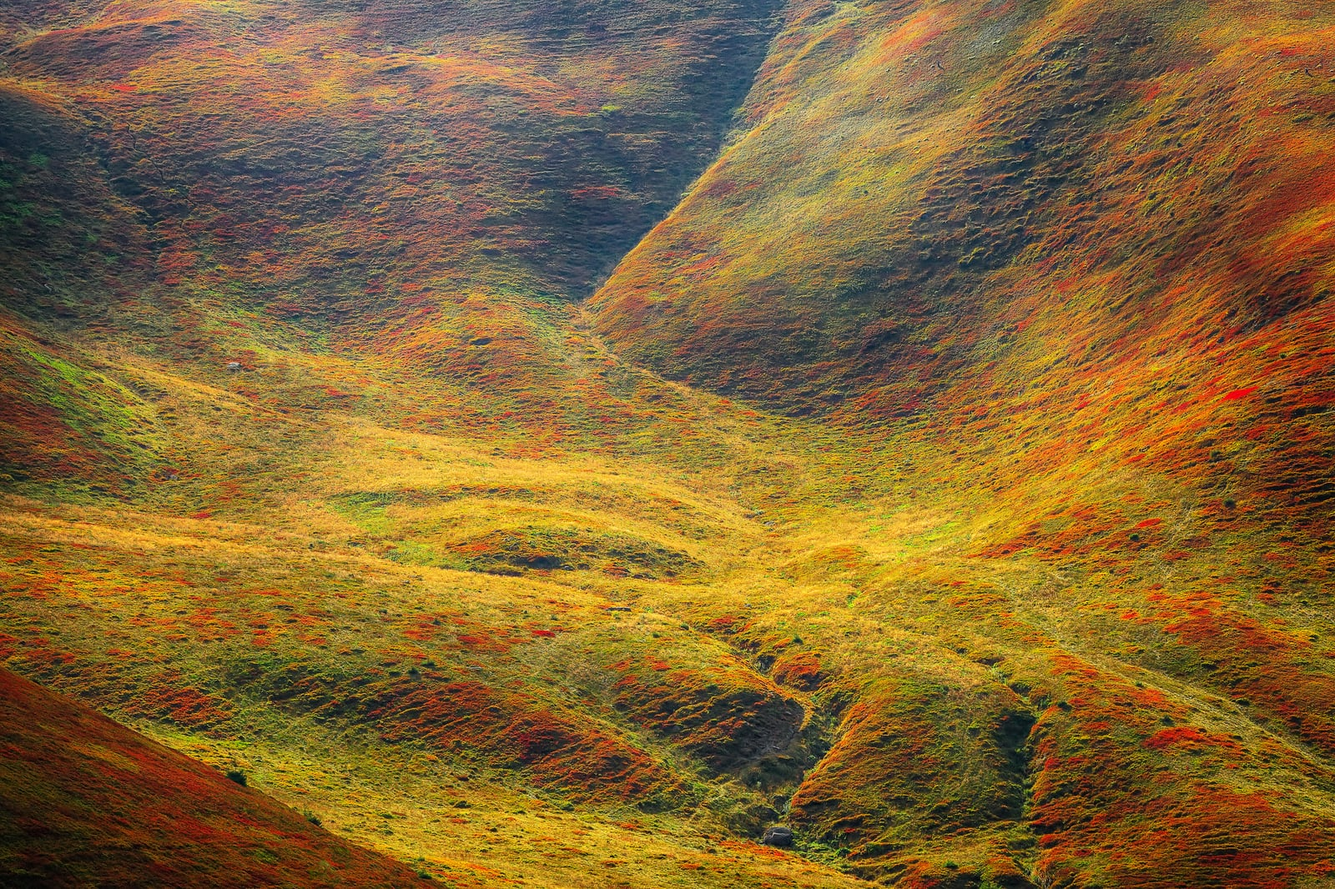
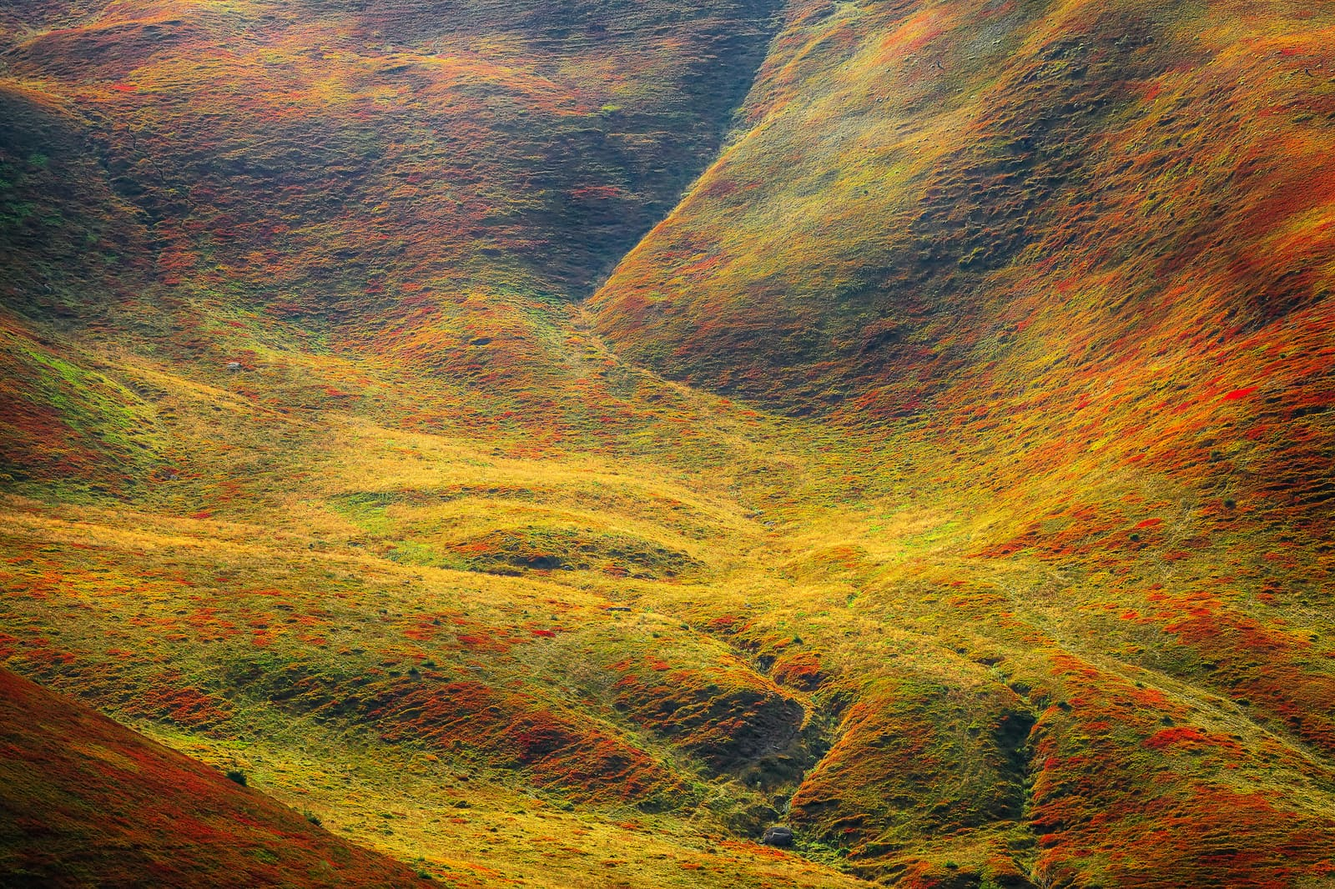
seo(heic-to-jpg, jpg-to-webp): rework copy + responsive compare images
- heic-to-jpg: new subtitle and meta emphasising no paywall + no upload
- jpg-to-webp: rewrite FAQ answers in first-person voice
- BeforeAfterCompare: accept srcSet/sizes/width/height and pass through
  to <img> with decoding=async, fetchPriority=low
- jpg-to-webp page + what-is-heic article: use 800w responsive sources
- Re-export compare images at smaller byte sizes

diff --git a/content/tools/jpg-to-webp.ts b/content/tools/jpg-to-webp.ts
@@ -78,11 +78,11 @@ export const config: ToolConfig = {
   faq: [
     {
       q: 'Does converting JPG to WebP reduce quality?',
-      a: 'At the default quality of 80, the difference is invisible to most viewers — WebP is simply more efficient than JPG at the same perceptual quality. If you enable lossless mode, there is zero quality loss. The only scenario where you would notice degradation is at very low quality settings (below 50), which would look bad in any format.',
+      a: 'At the default quality setting of 80%, the difference is negligible to most viewers. WebP is more efficient than JPG at the same quality, especially if you turn on lossless mode. The only scenario where you’ll see a noticeable degradation is using low quality settings (50 or below), which looks bad regardless of format.',
     },
     {
       q: 'How much smaller will my WebP files be?',
-      a: 'On average, 25–35% smaller than the equivalent JPG. Results vary by content: photos with gradients and smooth tones compress best (30–40% savings), while images with sharp edges or text see smaller gains (10–20%). ConvertYard shows you the exact byte savings per file in your results so you can see the difference immediately.',
+      a: "Based on my tests, I'm getting over 70% savings converting JPG to WebP at 80% quality. However, results may vary depending on the content. Check the demo output below and the slider to see the JPG and WebP side by side; you'll hardly notice any change. ConvertYard shows you the exact byte savings per file in your results so you can see the difference immediately.",
     },
     {
       q: 'Does WebP work in all browsers?',
@@ -90,15 +90,15 @@ export const config: ToolConfig = {
     },
     {
       q: "What's the difference between lossy and lossless WebP?",
-      a: 'Lossy WebP (the default) discards some pixel data to shrink file size — at quality 80 this is imperceptible. Lossless WebP preserves every pixel exactly, like a PNG, but uses smarter compression than PNG and is typically 25% smaller than an equivalent PNG. Lossless files are 10–30% larger than lossy equivalents. Use lossless for logos, screenshots, UI assets, or images you plan to edit again.',
+      a: 'Lossy WebP (the default) discards some pixel data to shrink file size — at quality 80, the loss is negligible. Lossless WebP preserves every pixel exactly, like a PNG, but uses smarter compression than PNG and is typically 25% smaller than an equivalent PNG. Lossless files are 10–30% larger than lossy equivalents. Use lossless for logos, screenshots, UI assets, or images you plan to edit again.',
     },
     {
       q: 'Can I convert 1,000 JPGs at once?',
-      a: 'Yes. Drop them all in at once and ConvertYard processes them one at a time in your browser — no uploads, no queues, no server. Speed depends on your device, image dimensions, and the compression effort setting. On a modern laptop, 1,000 average-sized photos typically finishes in 5–15 minutes. Download them all as a single ZIP when done.',
+      a: 'Yes, you can drop all contents of a folder at once, but note that this will take longer than a smaller batch. One advantage of browser conversion is that it reduces the time it takes because it skips the file upload process. Most ‘free’ image converter sites also limit how many files they can process because of storage limits on their servers. Conversion speed depends on several factors: image size and processor speed. Typically, a 1,000-file batch conversion takes about 5 to 15 minutes. After conversion, you can download the batch as a zip file.',
     },
     {
       q: 'Are my files uploaded to your servers?',
-      a: "Never. Conversion runs entirely in your browser using WebAssembly — the same technology behind browser-based tools like Figma. Your files never leave your device. ConvertYard's servers only deliver the tool's code; they never see your images, filenames, or metadata.",
+      a: 'Nothing uploads. The file conversion is done entirely in your browser using WebAssembly. This is the same technology behind browser-based tools like Figma. The image files never leave your device. What our server does is deliver code to your browser, but all the processing happens locally, so there’s no risk of a data breach or people stealing your photos.',
     },
   ],
 

diff --git a/components/ui/BeforeAfterCompare.tsx b/components/ui/BeforeAfterCompare.tsx
@@ -11,6 +11,11 @@ interface BeforeAfterCompareProps {
   afterLabel: string
   aspectRatio?: string
   caption?: string
+  beforeSrcSet?: string
+  afterSrcSet?: string
+  sizes?: string
+  width?: number
+  height?: number
 }
 
 export function BeforeAfterCompare({
@@ -22,6 +27,11 @@ export function BeforeAfterCompare({
   afterLabel,
   aspectRatio = '4 / 3',
   caption = 'Drag the slider to compare. Same photo, same 4032 × 3024 resolution — but JPG ends up ~60% larger than the HEIC original.',
+  beforeSrcSet,
+  afterSrcSet,
+  sizes,
+  width,
+  height,
 }: BeforeAfterCompareProps) {
   return (
     <div className="my-8 relative left-1/2 right-1/2 -mx-[50vw] w-screen">
@@ -35,9 +45,15 @@ export function BeforeAfterCompare({
               <>
                 <img
                   src={beforeSrc}
+                  srcSet={beforeSrcSet}
+                  sizes={sizes}
+                  width={width}
+                  height={height}
                   alt={beforeAlt}
                   className="h-full w-full object-cover"
                   loading="lazy"
+                  decoding="async"
+                  fetchPriority="low"
                   draggable={false}
                 />
                 <span className="pointer-events-none absolute left-3 top-3 rounded-md bg-black/70 px-2 py-1 text-xs font-medium text-white sm:left-4 sm:top-4 sm:text-sm">
@@ -49,9 +65,15 @@ export function BeforeAfterCompare({
               <>
                 <img
                   src={afterSrc}
+                  srcSet={afterSrcSet}
+                  sizes={sizes}
+                  width={width}
+                  height={height}
                   alt={afterAlt}
                   className="h-full w-full object-cover"
                   loading="lazy"
+                  decoding="async"
+                  fetchPriority="low"
                   draggable={false}
                 />
                 <span className="pointer-events-none absolute right-3 top-3 rounded-md bg-black/70 px-2 py-1 text-xs font-medium text-white sm:right-4 sm:top-4 sm:text-sm">

diff --git a/content/tools/heic-to-jpg.ts b/content/tools/heic-to-jpg.ts
@@ -4,7 +4,7 @@ import type { ToolConfig } from '@/lib/types'
 export const config: ToolConfig = {
   slug: 'heic-to-jpg',
   title: 'HEIC to JPG Converter',
-  subtitle: 'iPhone photos to universal JPGs in your browser. Drop 1,000 at once — no iCloud, no Lightroom needed.',
+  subtitle: 'Convert iPhone’s HEIC format to a universally readable JPG format in your browser. No paywall. Nothing uploads to a server. Everything is converted locally in your browser.',
   bestFor: 'Best for making iPhone photos viewable on Windows PCs, Android devices, and apps that reject HEIC.',
   category: 'images',
   accepts: ['image/heic', 'image/heif'],
@@ -89,8 +89,8 @@ export const config: ToolConfig = {
   relatedArticles: ['what-is-heic', 'heic-to-jpg-on-windows', 'batch-convert-images'],
 
   meta: {
-    title: 'Convert iPhone HEIC to JPG — ConvertYard',
+    title: 'Convert iPhone HEIC to JPG - Unlimited Convertions, Nothing Uploads',
     description:
-      'Convert iPhone HEIC photos to JPG in your browser. Batch up to 1,000 files — no uploads, no account. Auto-orient, quality control, and resize included.',
+      "Convert iPhone HEIC files to JPG file in your browser to view the photo on non-IOS devices. Convert batches up to 1,000 files for free. Nothing uploads and there's no paywall. Auto-orient, resize, and adjust quality filters are included.",
   },
 }

diff --git a/app/(tools)/jpg-to-webp/page.tsx b/app/(tools)/jpg-to-webp/page.tsx
@@ -11,11 +11,16 @@ export default function Page() {
       belowToolCard={
         <BeforeAfterCompare
           beforeSrc="/tools/jpg-to-webp/rolling-hills-before.jpg"
+          beforeSrcSet="/tools/jpg-to-webp/rolling-hills-before-800.jpg 800w, /tools/jpg-to-webp/rolling-hills-before.jpg 1600w"
           beforeAlt="Original JPG landscape photo"
           beforeLabel="JPG — 24 MB"
           afterSrc="/tools/jpg-to-webp/rolling-hills-after.webp"
+          afterSrcSet="/tools/jpg-to-webp/rolling-hills-after-800.webp 800w, /tools/jpg-to-webp/rolling-hills-after.webp 1600w"
           afterAlt="Same photo converted to WebP with ConvertYard"
           afterLabel="WebP — 6.1 MB"
+          sizes="(max-width: 640px) 100vw, 1024px"
+          width={1600}
+          height={1066}
           aspectRatio="3 / 2"
           caption="Real conversion: 24 MB JPG → 6.1 MB WebP (74% smaller) at the same visual quality. Drag the slider to compare."
         />
